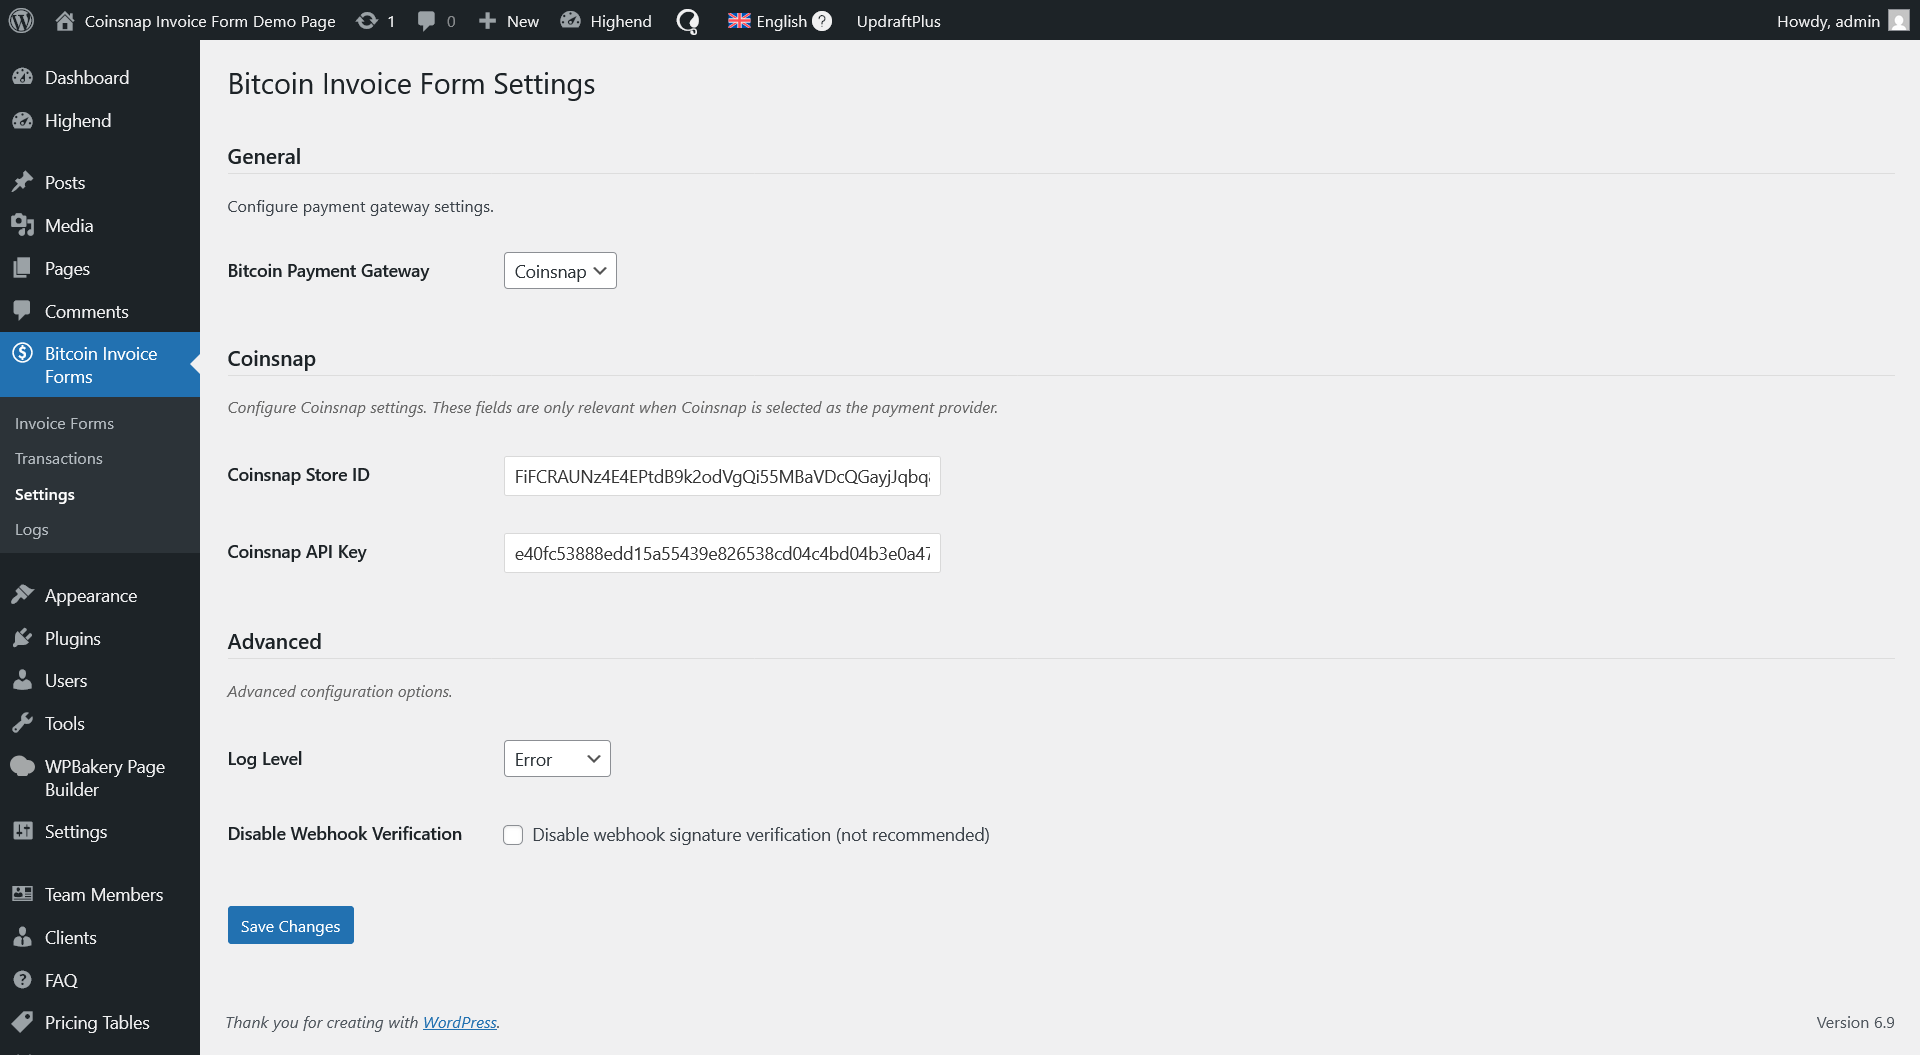
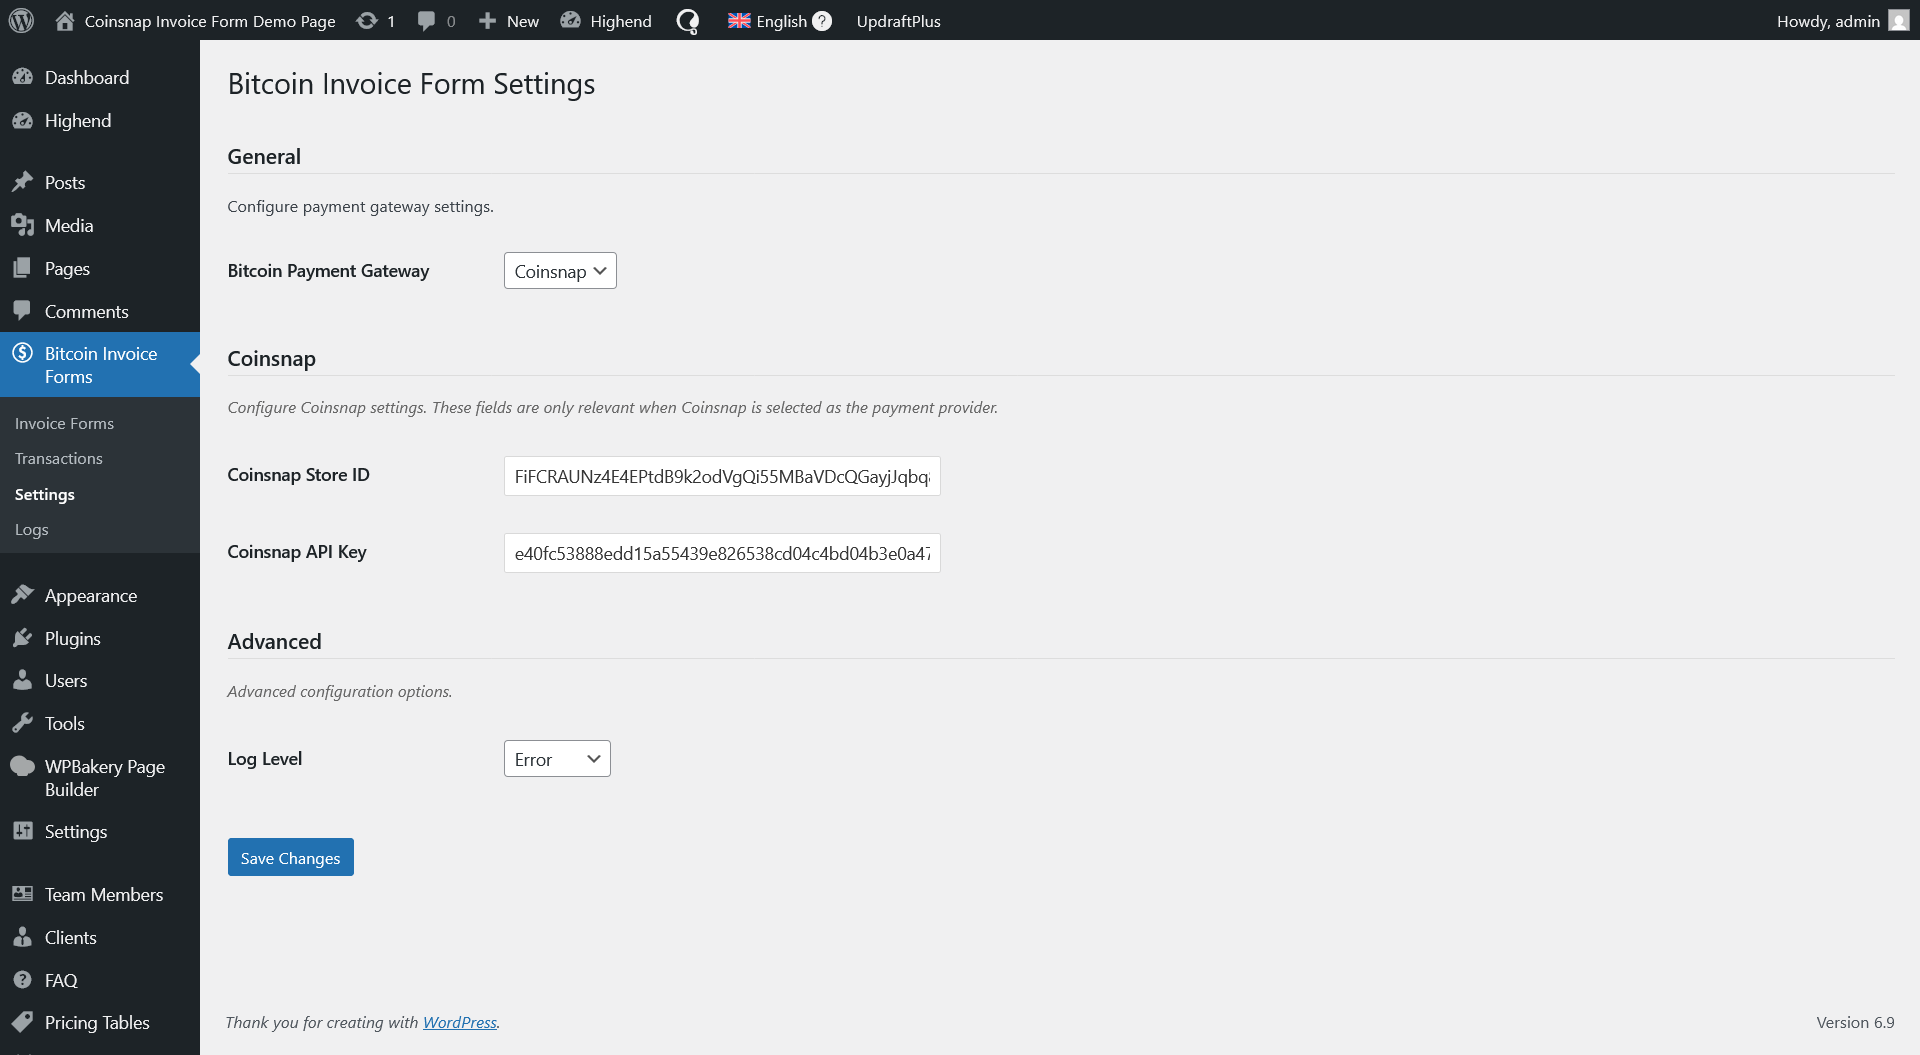
SNAP-2657 BTCPay Server connection wizard

Changed region(s): [[0.0938, 0.7886, 0.25, 0.91], [0.2812, 0.7886, 0.5, 0.819]]

diff --git a/assets/js/admin.js b/assets/js/admin.js
@@ -51,9 +51,9 @@
         
         
         
-        $('#coinsnapbif_btcpay_wizard_button').click(function(e) {
+    $('#coinsnapbif_btcpay_wizard_button').click(function(e) {
         e.preventDefault();
-        const host = $('#btcpay_url').val();
+        const host = $('#coinsnapbif_btcpay_url').val();
 	if (isCoinsnapBIFValidUrl(host)) {
             let data = {
                 'action': 'coinsnapbif_btcpay_apiurl_handler',

diff --git a/src/class-coinsnapbif-plugin.php b/src/class-coinsnapbif-plugin.php
@@ -168,7 +168,98 @@ class CoinsnapBIF_Plugin {
     }
         
     public function btcpayApiUrlHandler(){
-            
+            $_nonce = filter_input(INPUT_POST,'apiNonce',FILTER_SANITIZE_STRING);
+            if ( !wp_verify_nonce( $_nonce, 'coinsnap-ajax-nonce' ) ) {
+                wp_die('Unauthorized!', '', ['response' => 401]);
+            }
+
+            if ( current_user_can( 'manage_options' ) ) {
+                $host = filter_var(filter_input(INPUT_POST,'host',FILTER_SANITIZE_STRING), FILTER_VALIDATE_URL);
+
+                if ($host === false || (substr( $host, 0, 7 ) !== "http://" && substr( $host, 0, 8 ) !== "https://")) {
+                    wp_send_json_error("Error validating BTCPayServer URL.");
+                }
+
+                $permissions = array_merge([
+                    'btcpay.store.canviewinvoices',
+                    'btcpay.store.cancreateinvoice',
+                    'btcpay.store.canviewstoresettings',
+                    'btcpay.store.canmodifyinvoices'
+                ],
+                [
+                    'btcpay.store.cancreatenonapprovedpullpayments',
+                    'btcpay.store.webhooks.canmodifywebhooks',
+                ]);
+
+                try {
+                    // Create the redirect url to BTCPay instance.
+                    $url = $this->getAuthorizeUrl(
+                        $host,
+                        $permissions,
+                        'CoinsnapBIF',
+                        true,
+                        true,
+                        home_url('?coinsnapBIF-settings-callback'),
+                        null
+                    );
+
+                    // Store the host to options before we leave the site.
+                    coinsnap_settings_update(AdminSettings::OPTION_KEY,['btcpay_host' => $host]);
+
+                    // Return the redirect url.
+                    wp_send_json_success(['url' => $url]);
+                }
+
+                catch (\Throwable $e) {
+
+                }
+            }
+            wp_send_json_error("Error processing Ajax request.");
+    }
+    
+    public function getAuthorizeUrl(string $baseUrl, array $permissions, ?string $applicationName, ?bool $strict, ?bool $selectiveStores, ?string $redirectToUrlAfterCreation, ?string $applicationIdentifier): string {
+        $url = rtrim($baseUrl, '/') . '/api-keys/authorize';
+
+        $params = [];
+        $params['permissions'] = $permissions;
+        $params['applicationName'] = $applicationName;
+        $params['strict'] = $strict;
+        $params['selectiveStores'] = $selectiveStores;
+        $params['redirect'] = $redirectToUrlAfterCreation;
+        $params['applicationIdentifier'] = $applicationIdentifier;
+
+        // Take out NULL values
+        $params = array_filter($params, function ($value) {
+            return $value !== null;
+        });
+
+        $queryParams = [];
+
+        foreach ($params as $param => $value) {
+            if ($value === true) {
+                $value = 'true';
+            }
+            if ($value === false) {
+                $value = 'false';
+            }
+
+            if (is_array($value)) {
+                foreach ($value as $item) {
+                    if ($item === true) {
+                        $item = 'true';
+                    }
+                    if ($item === false) {
+                        $item = 'false';
+                    }
+                    $queryParams[] = $param . '=' . urlencode((string)$item);
+                }
+            } else {
+                $queryParams[] = $param . '=' . urlencode((string)$value);
+            }
+        }
+
+        $url .= '?' . implode("&", $queryParams);
+        return $url;
     }
         
     public function coinsnapConnectionHandler(){
@@ -502,3 +593,142 @@ class CoinsnapBIF_Plugin {
         }
     }
 }
+
+add_action('init', function() {
+    // Setting up and handling custom endpoint for api key redirect from BTCPay Server.
+    add_rewrite_endpoint('coinsnapBIF-settings-callback', EP_ROOT);
+});
+
+// To be able to use the endpoint without appended url segments we need to do this.
+add_filter('request', function($vars){
+    if (isset($vars['coinsnapBIF-settings-callback'])) {
+        $vars['coinsnapBIF-settings-callback'] = true;
+        $vars['coinsnapBIF-nonce'] = wp_create_nonce('coinsnap-bitcoin-invoice-form-btcpay-nonce');
+    }
+    return $vars;
+});
+
+if(!function_exists('coinsnap_settings_update')){
+    function coinsnap_settings_update($option,$data){
+        
+        $form_data = get_option($option, []);
+        
+        foreach($data as $key => $value){
+            $form_data[$key] = $value;
+        }
+        
+        update_option($option,$form_data);
+    }
+}
+
+// Adding template redirect handling for coinsnapBIF-settings-callback.
+add_action( 'template_redirect', function(){
+    
+    global $wp_query;
+            
+    // Only continue on a coinsnapBIF-settings-callback request.    
+    if (!isset( $wp_query->query_vars['coinsnapBIF-settings-callback'])) {
+        return;
+    }
+    
+    if(!isset($wp_query->query_vars['coinsnapBIF-nonce']) || !wp_verify_nonce($wp_query->query_vars['coinsnapBIF-nonce'],'coinsnap-bitcoin-invoice-form-btcpay-nonce')){
+        return;
+    }
+
+    $CoinsnapBTCPaySettingsUrl = admin_url('/admin.php?page=coinsnapbif-settings');
+    
+    $rawData = file_get_contents('php://input');
+    $form_data = get_option(AdminSettings::OPTION_KEY, []);
+
+    $btcpay_server_url = $form_data['btcpay_host'];
+    $btcpay_api_key  = filter_input(INPUT_POST,'apiKey',FILTER_SANITIZE_FULL_SPECIAL_CHARS);
+
+    $request_url = $btcpay_server_url.'/api/v1/stores';
+    $args = array(
+                'method'  => 'GET',
+                'headers' => array(
+                    'Authorization' => 'token ' . $btcpay_api_key,
+                    'Content-Type'  => 'application/json',
+                ),
+                'timeout' => 20
+    );
+
+    $res = wp_remote_request( $request_url, $args );
+    $code = wp_remote_retrieve_response_code( $res );
+    $getstores = json_decode( wp_remote_retrieve_body( $res ), true );
+            
+            if($code >= 200 && $code < 300 && is_array($getstores)){
+                if (count($getstores) < 1) {
+                    //$messageAbort = __('Error on verifiying redirected API Key with stored BTCPay Server url. Aborting API wizard. Please try again or continue with manual setup.', 'coinsnap-bitcoin-invoice-form');
+                    wp_redirect($CoinsnapBTCPaySettingsUrl);
+                }
+            }
+                        
+            // Data does get submitted with url-encoded payload, so parse $_POST here.
+            if (!empty($_POST)) {
+                $data['apiKey'] = filter_input(INPUT_POST,'apiKey',FILTER_SANITIZE_FULL_SPECIAL_CHARS) ?? null;
+                if(isset($_POST['permissions'])){
+                    $permissions = array_map('sanitize_text_field', wp_unslash($_POST['permissions']));
+                    if(is_array($permissions)){
+                        foreach ($permissions as $key => $value) {
+                            $data['permissions'][$key] = sanitize_text_field($permissions[$key] ?? null);
+                        }
+                    }
+                }
+            }
+    
+            if (isset($data['apiKey']) && isset($data['permissions'])) {
+
+                $REQUIRED_PERMISSIONS = [
+                    'btcpay.store.canviewinvoices',
+                    'btcpay.store.cancreateinvoice',
+                    'btcpay.store.canviewstoresettings',
+                    'btcpay.store.canmodifyinvoices'
+                ];
+                $OPTIONAL_PERMISSIONS = [
+                    'btcpay.store.cancreatenonapprovedpullpayments',
+                    'btcpay.store.webhooks.canmodifywebhooks',
+                ];
+                
+                $btcpay_server_permissions = $data['permissions'];
+                
+                $permissions = array_reduce($btcpay_server_permissions, static function (array $carry, string $permission) {
+			return array_merge($carry, [explode(':', $permission)[0]]);
+		}, []);
+
+		// Remove optional permissions so that only required ones are left.
+		$permissions = array_diff($permissions, $OPTIONAL_PERMISSIONS);
+
+		$hasRequiredPermissions = (empty(array_merge(array_diff($REQUIRED_PERMISSIONS, $permissions), array_diff($permissions, $REQUIRED_PERMISSIONS))))? true : false;
+                
+                $hasSingleStore = true;
+                $storeId = null;
+		foreach ($btcpay_server_permissions as $perms) {
+                    if (2 !== count($exploded = explode(':', $perms))) { return false; }
+                    if (null === ($receivedStoreId = $exploded[1])) { $hasSingleStore = false; }
+                    if ($storeId === $receivedStoreId) { continue; }
+                    if (null === $storeId) { $storeId = $receivedStoreId; continue; }
+                    $hasSingleStore = false;
+		}
+                
+                if ($hasSingleStore && $hasRequiredPermissions) {
+
+                    coinsnap_settings_update(
+                        AdminSettings::OPTION_KEY,[
+                        'btcpay_api_key' => $data['apiKey'],
+                        'btcpay_store_id' => explode(':', $btcpay_server_permissions[0])[1],
+                        'payment_provider' => 'btcpay'
+                        ]);
+                    
+                    wp_redirect($CoinsnapBTCPaySettingsUrl);
+                    exit();
+                }
+                else {
+                    wp_redirect($CoinsnapBTCPaySettingsUrl);
+                    exit();
+                }
+            }
+
+    wp_redirect($CoinsnapBTCPaySettingsUrl);
+    exit();
+});

diff --git a/coinsnap-bitcoin-invoice-form.php b/coinsnap-bitcoin-invoice-form.php
@@ -3,7 +3,7 @@
  * Plugin Name:        Bitcoin Invoice Form
  * Plugin URI:         https://coinsnap.io/modules/bitcoin-invoice/
  * Description:        Generate and embed customizable Bitcoin Invoice Forms on your website. Customers can complete and pay invoices directly on your site with payment processing via Coinsnap or BTCPay Server.
- * Version:            1.0.3.2
+ * Version:            1.1.0
  * Author:             Coinsnap
  * Author URI:         https://coinsnap.io/
  * Text Domain:        coinsnap-bitcoin-invoice-form
@@ -24,7 +24,7 @@ if ( ! defined( 'ABSPATH' ) ) {
 }
 
 if(!defined('COINSNAPBIF_REFERRAL_CODE' ) ) { define( 'COINSNAPBIF_REFERRAL_CODE', 'D85536' );}
-if(!defined('COINSNAPBIF_VERSION' ) ) { define( 'COINSNAPBIF_VERSION', '1.0.3.2' );}
+if(!defined('COINSNAPBIF_VERSION' ) ) { define( 'COINSNAPBIF_VERSION', '1.1.0' );}
 if(!defined('COINSNAPBIF_PHP_VERSION' ) ) { define( 'COINSNAPBIF_PHP_VERSION', '7.4' );}
 if(!defined('COINSNAP_CURRENCIES')){define( 'COINSNAP_CURRENCIES', array("EUR","USD","SATS","BTC","CAD","JPY","GBP","CHF","RUB") );}
 if(!defined('COINSNAP_SERVER_URL')){define( 'COINSNAP_SERVER_URL', 'https://app.coinsnap.io' );}

diff --git a/src/Admin/class-coinsnapbif-admin-settings.php b/src/Admin/class-coinsnapbif-admin-settings.php
@@ -144,7 +144,7 @@ class CoinsnapBIF_Admin_Settings {
 			__( 'BTCPay Server Host', 'coinsnap-bitcoin-invoice-form' ),
 			function () {
 				$s = self::get_settings();
-				echo '<input type="url" class="regular-text" name="' . esc_attr( self::OPTION_KEY ) . '[btcpay_host]" value="' . esc_attr( $s['btcpay_host'] ) . '" />';
+				echo '<input type="url" id="coinsnapbif_btcpay_url" class="regular-text" name="' . esc_attr( self::OPTION_KEY ) . '[btcpay_host]" value="' . esc_attr( $s['btcpay_host'] ) . '" /><br/><button class="button btcpay-apikey-link" type="button" id="coinsnapbif_btcpay_wizard_button" target="_blank">'. esc_html__('Generate API key','coinsnap-bitcoin-invoice-form') .'</button>';
 			},
 			'coinsnapbif-settings',
 			'coinsnapbif_btcpay'
@@ -201,7 +201,7 @@ class CoinsnapBIF_Admin_Settings {
 			},
 			'coinsnapbif-settings',
 			'coinsnapbif_advanced'
-		);
+		);/*
 		add_settings_field(
 			'disable_webhook_verification',
 			__( 'Disable Webhook Verification', 'coinsnap-bitcoin-invoice-form' ),
@@ -211,7 +211,7 @@ class CoinsnapBIF_Admin_Settings {
 			},
 			'coinsnapbif-settings',
 			'coinsnapbif_advanced'
-		);
+		);*/
 	}
 
 	/**

diff --git a/src/class-coinsnapbif-constants.php b/src/class-coinsnapbif-constants.php
@@ -32,7 +32,8 @@ class CoinsnapBIF_Constants {
 	public const COINSNAP_HEADER_API_KEY = 'X-Api-Key';
 
     /** BTCPay endpoint (relative to host). */
-	public const BTCPAY_STORE_ENDPOINT = '/api/v1/stores/%s';
+	public const BTCPAY_STORES_ENDPOINT = '/api/v1/stores';
+        public const BTCPAY_STORE_ENDPOINT = '/api/v1/stores/%s';
         public const BTCPAY_INVOICES_ENDPOINT = '/api/v1/stores/%s/invoices';
         public const BTCPAY_WEBHOOKS_ENDPOINT = '/api/v1/stores/%s/webhooks';
 

diff --git a/src/Providers/Payment/class-btcpayprovider.php b/src/Providers/Payment/class-btcpayprovider.php
@@ -64,8 +64,7 @@ class BTCPayProvider implements PaymentProviderInterface {
         else {
             return array('error' => true,'message'=>__('BTCPay server request error','coinsnap-bitcoin-invoice-form'),'code' => $code, 'result' => $result);
         }
-    }
-    
+    }    
     
     /**
      * Check existing webhook on BTCPay server.

diff --git a/README.md b/README.md
@@ -3,7 +3,7 @@
 Contributors: coinsnap
 Tags: Lightning, bitcoin, invoice form, BTCPay
 Tested up to: 6.9
-Stable tag: 1.0.3.2
+Stable tag: 1.1.0
 License: GPL2
 License URI: https://www.gnu.org/licenses/gpl-2.0.html
 
@@ -452,3 +452,7 @@ Generate and embed customizable Bitcoin Invoice Forms on your website (Coinsnap 
 
 ### 1.0.3.2 :: 2026-02-11
 * Updated Coinsnap and BTCPay server errors handler
+
+### 1.1.0 :: 2026-03-01
+* Update: added BTCPay server connection wizard on Settings page
+* Update: deleted setting Disable Webhook Verification
